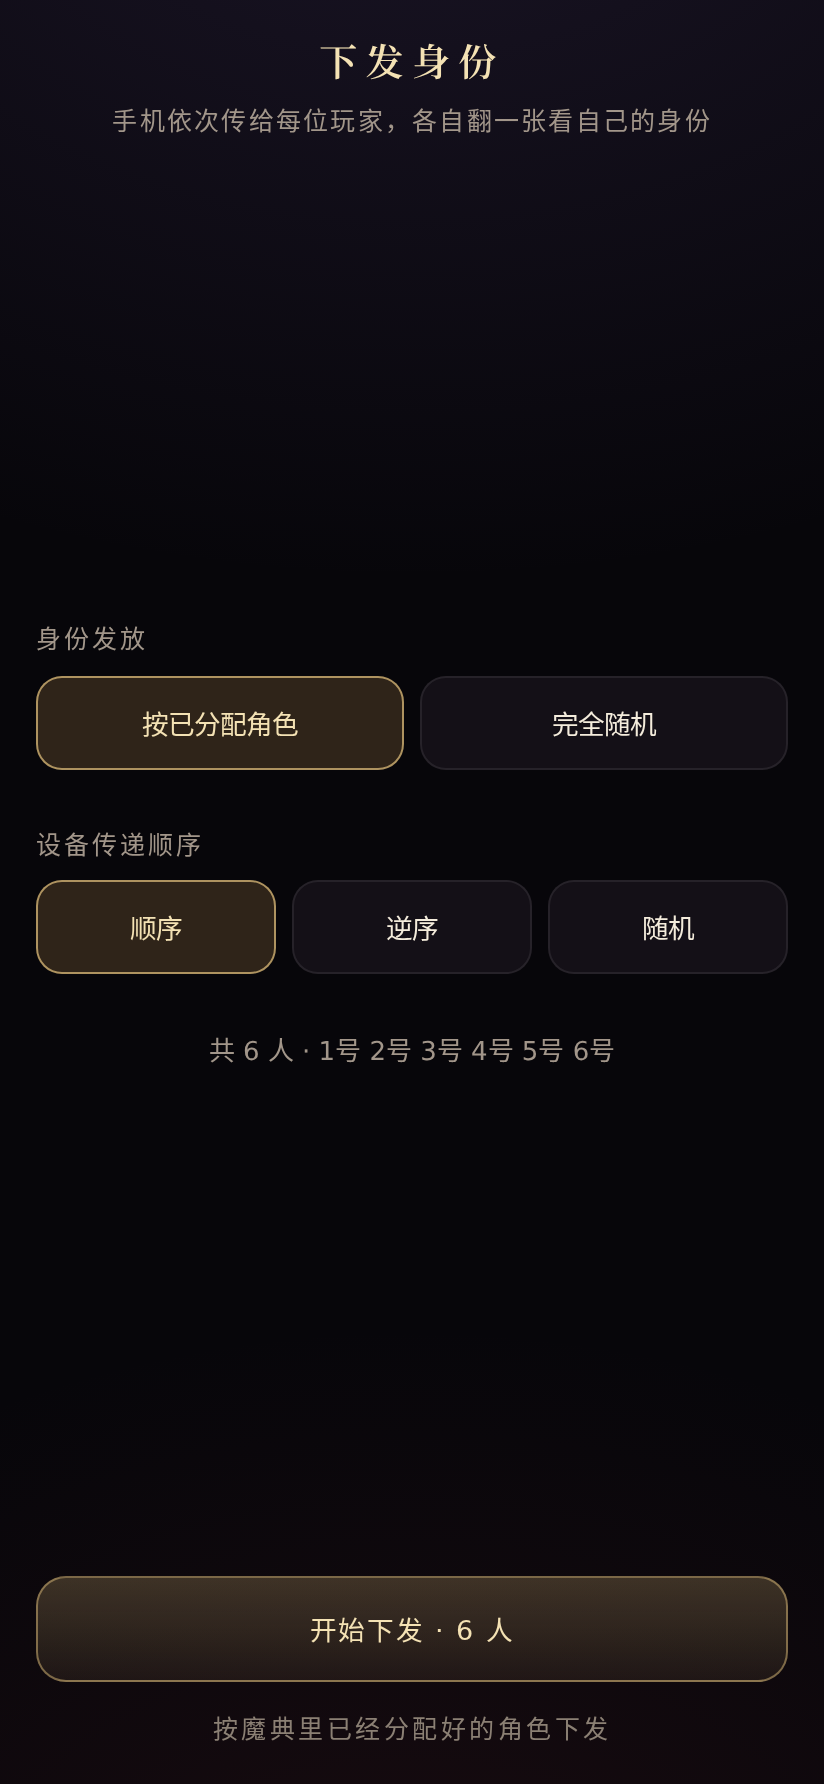
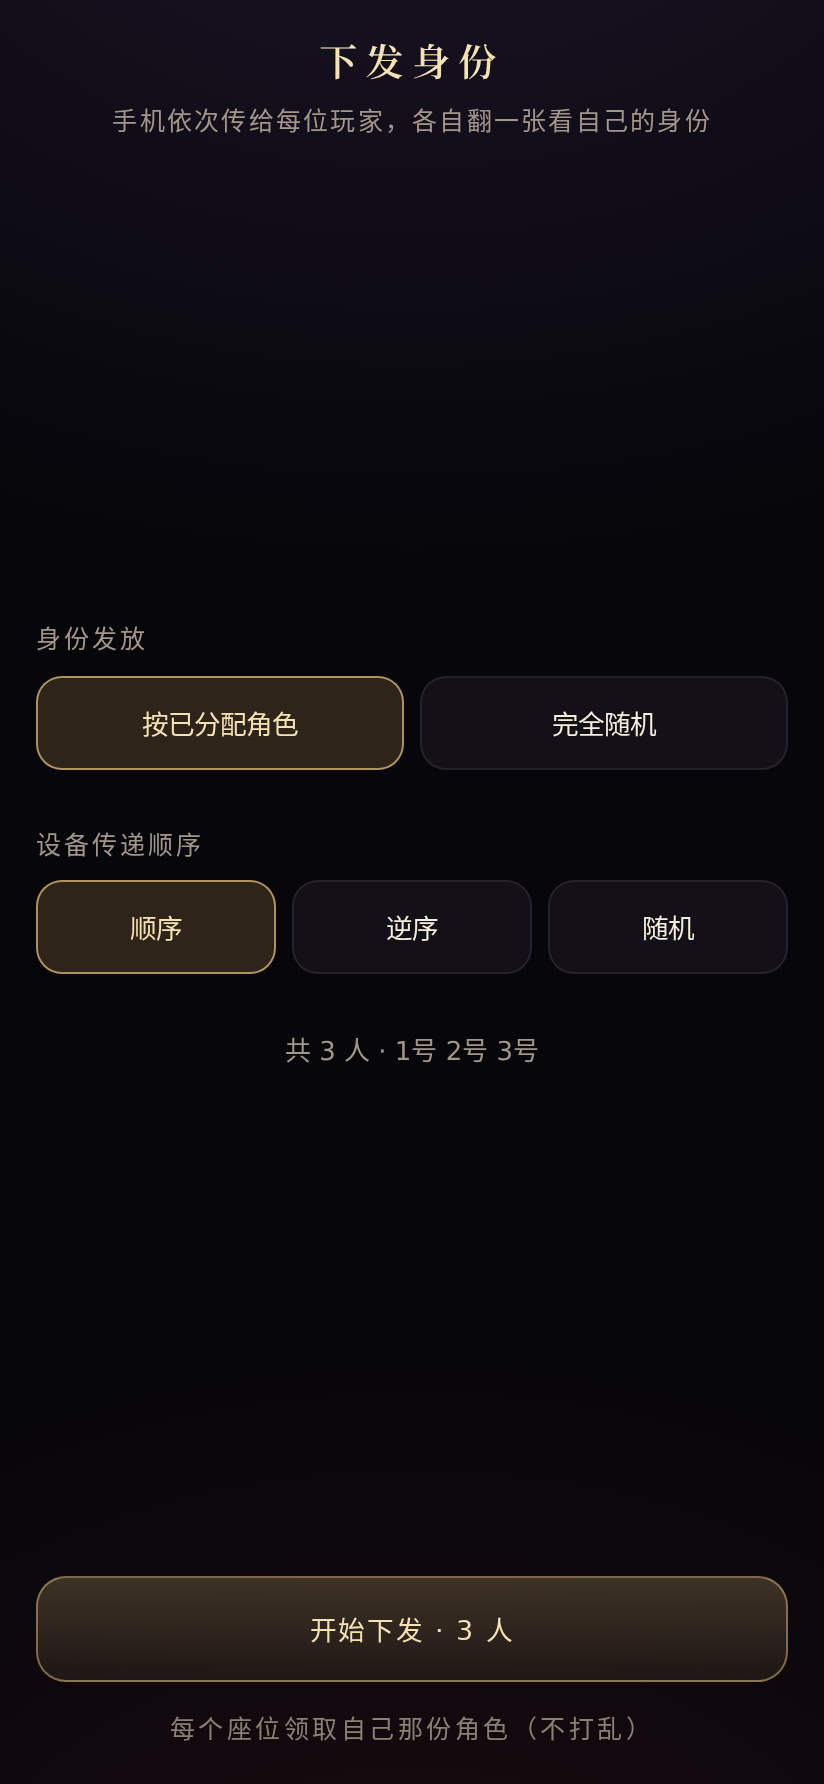
fix(deal): 角色只从魔典已分配的角色里抽取（随机=打乱重发），结果写回房间并回填魔典

diff --git a/public/js/deal.js b/public/js/deal.js
@@ -21,6 +21,7 @@
   var queue = [];       // 领取顺序（座位数组）
   var pool = [];        // 待领的角色（[{id,name,team,ability,image}]）
   var picked = {};      // seat -> role
+  var seatRole = null;  // 「按已分配角色」时：seat -> role
   var idx = 0;          // 当前队列位置
   var mode = 'assigned';
   var order = 'asc';
@@ -77,7 +78,7 @@
       .then(function (d) {
         var list = (d && d.doc && d.doc.players) || [];
         return list.map(function (p) {
-          return { seat: p.seat, name: p.name || ('玩家' + p.seat), character: p.character || null };
+          return { id: p.id, seat: p.seat, name: p.name || ('玩家' + p.seat), character: p.character || null };
         }).sort(function (a, b) { return a.seat - b.seat; });
       })
       .catch(function () { return []; });
@@ -110,15 +111,17 @@
       : '这个房间还没有座位');
 
     var missing = players.filter(function (p) { return !p.character; }).length;
-    if (mode === 'assigned') {
-      $('#modeHint').textContent = missing
-        ? ('有 ' + missing + ' 个座位还没分配角色，这些位置会从剩余角色里随机补')
-        : '按魔典里已经分配好的角色下发';
+    if (missing) {
+      $('#modeHint').textContent = '还有 ' + missing + ' 个座位没分配角色，先在魔典里分配好再来下发';
+    } else if (mode === 'assigned') {
+      $('#modeHint').textContent = '每个座位领取自己那份角色（不打乱）';
     } else {
-      $('#modeHint').textContent = '把已分配的角色打乱后随机下发';
+      $('#modeHint').textContent = '把魔典里已分配的角色打乱后重新发给座位';
     }
-    $('#btnStart').disabled = players.length === 0;
-    $('#btnStart').textContent = players.length ? ('开始下发 · ' + players.length + ' 人') : '开始下发';
+    $('#btnStart').disabled = players.length === 0 || missing > 0;
+    $('#btnStart').textContent = players.length
+      ? (missing ? ('还有 ' + missing + ' 个座位没角色') : ('开始下发 · ' + players.length + ' 人'))
+      : '开始下发';
   }
 
   /* ---------- 开始 ---------- */
@@ -126,26 +129,23 @@
     var assigned = players.filter(function (p) { return p.character && rolesById[p.character]; })
       .map(function (p) { return rolesById[p.character]; });
 
-    if (mode === 'assigned' && !assigned.length) {
-      mode = 'random';
+    if (assigned.length < players.length) {
+      toast('有座位还没分配角色，先回魔典分配');
       renderSetup();
-      toast('魔典里还没有分配角色，已改用随机下发');
+      return;
     }
 
-    if (mode === 'random' || assigned.length < players.length) {
-      // 以已分配角色为底，不足的部分从当前剧本里随机补
-      var base = assigned.slice();
-      var extra = scriptPool.filter(function (r) {
-        return !base.some(function (x) { return x.id === r.id; });
-      });
-      if (!extra.length) extra = scriptPool.slice();
-      while (base.length < players.length && extra.length) {
-        base.push(extra.splice(Math.floor(Math.random() * extra.length), 1)[0]);
-      }
-      while (base.length < players.length) base.push(base[Math.floor(Math.random() * base.length)]);
-      pool = shuffle(base).slice(0, players.length);
-    } else {
+    /* 池子就是魔典里已分配的那几个角色：随机 = 打乱，按已分配 = 保持原样 */
+    if (mode === 'random') {
       pool = shuffle(assigned);
+      seatRole = null;
+    } else {
+      pool = assigned.slice();
+      seatRole = {};
+      players.forEach(function (p) {
+        var r = rolesById[p.character];
+        if (r) seatRole[p.seat] = r;
+      });
     }
 
     queue = players.slice();
@@ -179,6 +179,13 @@
   }
 
   function renderPick(p) {
+    if (seatRole && seatRole[p.seat]) {
+      var mine = seatRole[p.seat];
+      var at = -1;
+      for (var k = 0; k < pool.length; k++) if (pool[k].id === mine.id) { at = k; break; }
+      reveal(p, mine, at);
+      return;
+    }
     $('#pickTitle').textContent = p.seat + ' 号，请选择一张牌堆';
     $('#pickLeft').textContent = '剩余 ' + pool.length + ' 张';
     var deck = $('#deck');
@@ -197,9 +204,20 @@
     show('scPick');
   }
 
+  /* 把抽到的角色写回房间，魔典和广场会跟着变 */
+  function pushRole(p, role) {
+    if (!/^[A-Z0-9]{4}$/.test(code) || !p.id) return;
+    fetch('/api/room/' + code + '/intent', {
+      method: 'POST',
+      headers: { 'Content-Type': 'application/json' },
+      body: JSON.stringify({ type: 'character', id: p.id, character: role.id })
+    }).catch(function () { /* 离线就跳过 */ });
+  }
+
   function reveal(p, role, i) {
-    pool.splice(i, 1);
+    if (i >= 0 && pool[i] && pool[i].id === role.id) pool.splice(i, 1);
     picked[p.seat] = role;
+    pushRole(p, role);
 
     $('#revealTitle').textContent = p.seat + ' 号，你的身份是';
     $('#roleImg').src = role.image || '';

diff --git a/public/gs-bridge.js b/public/gs-bridge.js
@@ -313,7 +313,49 @@
     dealButton();
   }
 
+  /* 反向同步：房间里的「座位 → 角色」如果和魔典不一致（比如刚用下发系统抽过），
+     就把房间的角色写回魔典的 store，魔典界面当场刷新。 */
+  var pullInflight = false;
+  function pullRoles() {
+    if (!hasRoom || pullInflight) return;
+    var st = getStore();
+    if (!st) return;
+    pullInflight = true;
+    fetch('/api/room/' + code, { cache: 'no-store' })
+      .then(function (r) { return r.json(); })
+      .then(function (d) {
+        pullInflight = false;
+        var list = (d && d.doc && d.doc.players) || [];
+        if (!list.length) return;
+        var state = st.state;
+        var ps = (state.players && state.players.players) || [];
+        var rolesMap = state.roles;
+        if (!rolesMap || typeof rolesMap.get !== 'function') return;
+
+        /* 房间里比魔典多出来的座位，先补上（这样下发完不用手动加座位） */
+        list.forEach(function (rp, i) {
+          if (ps[i]) return;
+          st.commit('players/add', rp.name || ('玩家' + rp.seat));
+          ps = st.state.players.players;
+        });
+
+        list.forEach(function (rp) {
+          if (!rp.character) return;                 // 房间里没角色就不动魔典
+          var sp = ps[rp.seat - 1];
+          if (!sp) return;
+          var have = sp.role && sp.role.id ? sp.role.id : null;
+          if (have === rp.character) return;
+          var role = rolesMap.get(rp.character);
+          if (!role) return;
+          st.commit('players/update', { player: sp, property: 'role', value: role });
+        });
+      })
+      .catch(function () { pullInflight = false; });
+  }
+
+  if (hasRoom) setInterval(pullRoles, 2500);
+
   document.addEventListener('visibilitychange', function () {
-    if (hasRoom && !document.hidden) push(true);
+    if (!document.hidden && hasRoom) { push(true); pullRoles(); }
   });
 })();
